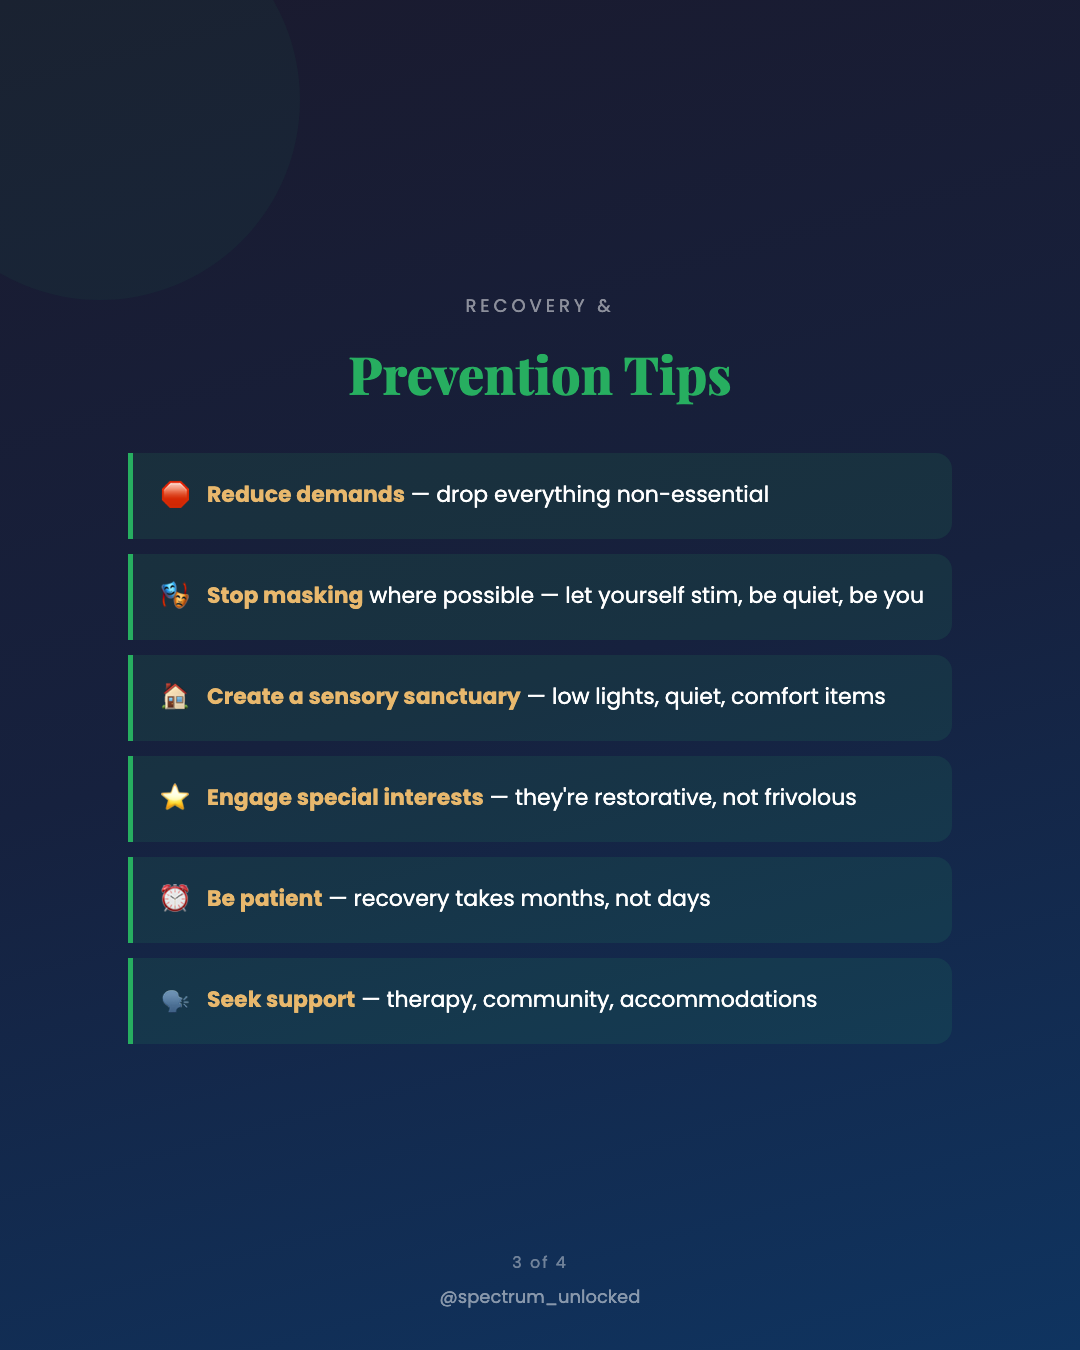
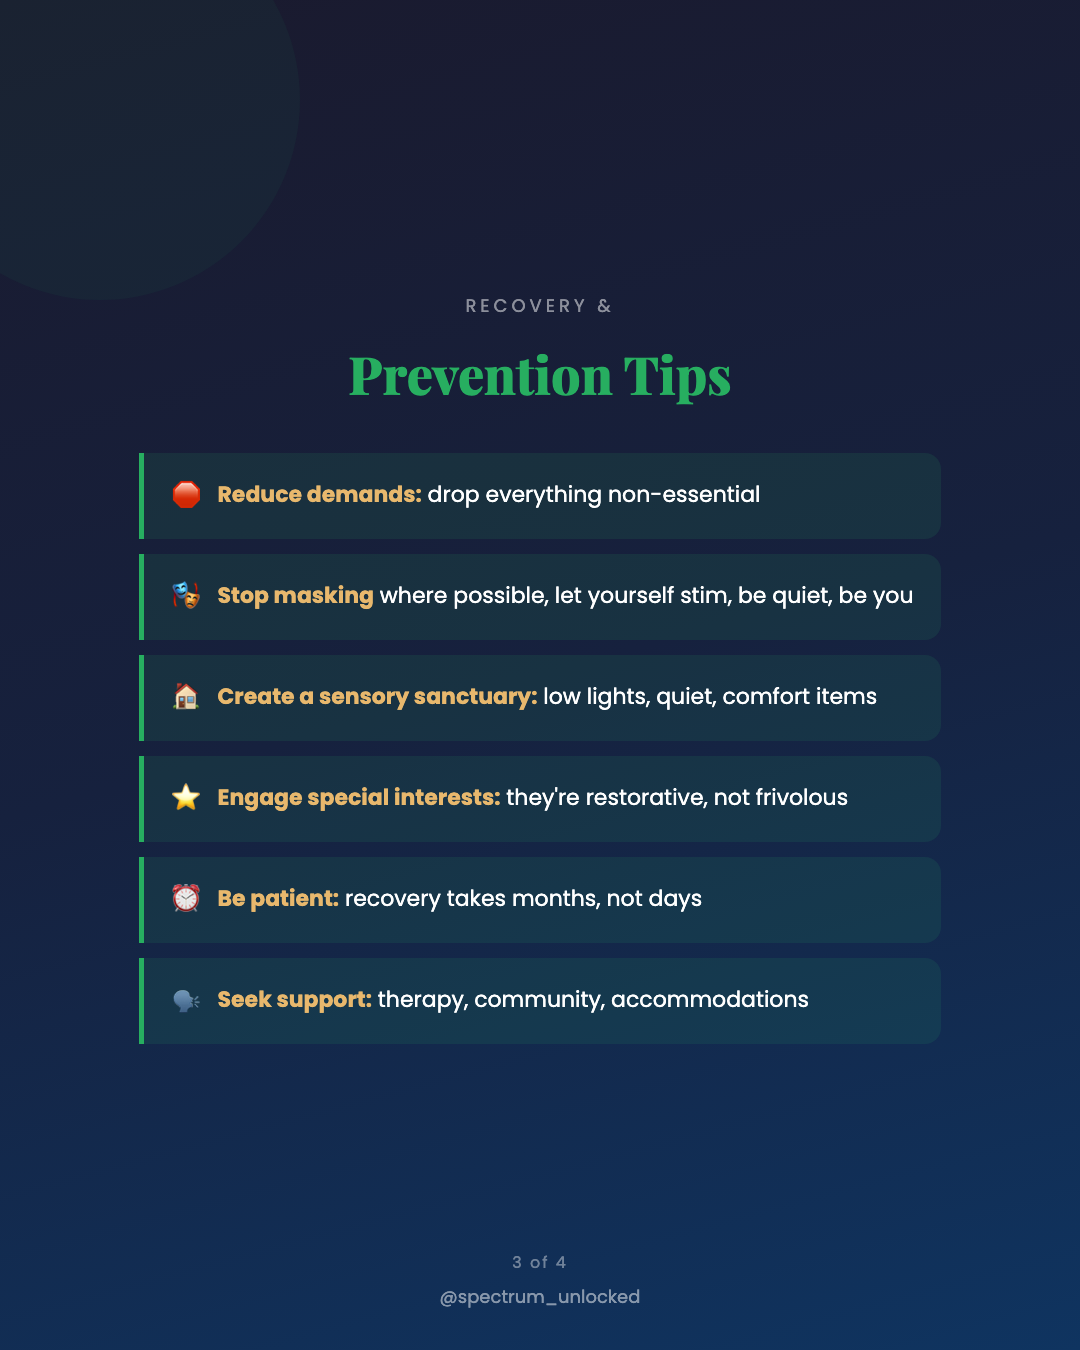
Fix: remove em dashes from burnout prevention slide

diff --git a/content/day-06-burnout/slide-04-prevention.html b/content/day-06-burnout/slide-04-prevention.html
@@ -60,27 +60,27 @@
   <div class="tips">
     <div class="tip-item">
       <span class="icon">🛑</span>
-      <span class="text"><strong>Reduce demands</strong> — drop everything non-essential</span>
+      <span class="text"><strong>Reduce demands:</strong> drop everything non-essential</span>
     </div>
     <div class="tip-item">
       <span class="icon">🎭</span>
-      <span class="text"><strong>Stop masking</strong> where possible — let yourself stim, be quiet, be you</span>
+      <span class="text"><strong>Stop masking</strong> where possible, let yourself stim, be quiet, be you</span>
     </div>
     <div class="tip-item">
       <span class="icon">🏠</span>
-      <span class="text"><strong>Create a sensory sanctuary</strong> — low lights, quiet, comfort items</span>
+      <span class="text"><strong>Create a sensory sanctuary:</strong> low lights, quiet, comfort items</span>
     </div>
     <div class="tip-item">
       <span class="icon">⭐</span>
-      <span class="text"><strong>Engage special interests</strong> — they're restorative, not frivolous</span>
+      <span class="text"><strong>Engage special interests:</strong> they're restorative, not frivolous</span>
     </div>
     <div class="tip-item">
       <span class="icon">⏰</span>
-      <span class="text"><strong>Be patient</strong> — recovery takes months, not days</span>
+      <span class="text"><strong>Be patient:</strong> recovery takes months, not days</span>
     </div>
     <div class="tip-item">
       <span class="icon">🗣</span>
-      <span class="text"><strong>Seek support</strong> — therapy, community, accommodations</span>
+      <span class="text"><strong>Seek support:</strong> therapy, community, accommodations</span>
     </div>
   </div>
   
